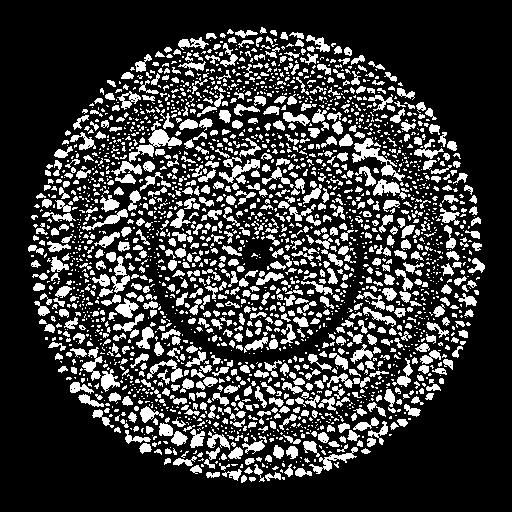
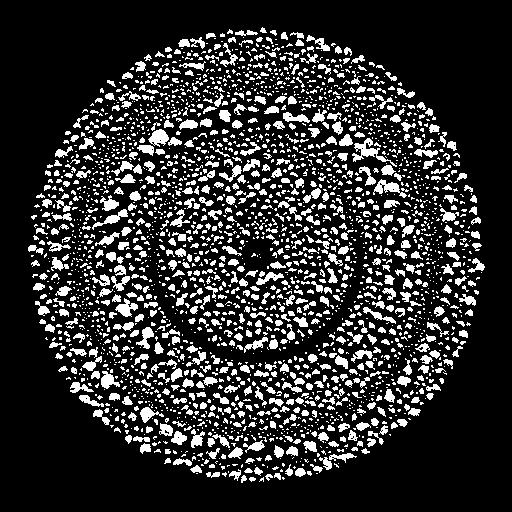
stones segmentation quite good idk

diff --git a/main.py b/main.py
@@ -532,7 +532,7 @@ def stones():
     # plot.show()
     print(otsu(image))
     print(otsu_threshold(image, (image.height * image.width)))
-    image.treshold(135)
+    image.treshold(150)
     image.update_image(image.new_image, '-thed')
     m = image.new_image
     image.save_image()
@@ -547,42 +547,50 @@ def stones():
 
     kernel1 = np.ones((6, 6), 'uint8')
     kernel2 = np.ones((7, 7), 'uint8')
-    kernel3 = np.ones((2, 2), 'uint8')
+    kernel3 = np.ones((1, 1), 'uint8')
     pix_eros1 = cv2.erode(m, kernel1, iterations=1)
-    image.update_image(pix_eros1, '-erosed-4x4')
+    image.update_image(pix_eros1, '-erosed-' + str(kernel1.shape[0]))
     image.save_image()
     pix_eros2 = cv2.erode(m, kernel2, iterations=1)
-    kernel4 = np.ones((1, 1), 'uint8')
-    pix_eros2 = cv2.erode(pix_eros2, kernel4, iterations=1)
+    pix_eros2 = cv2.dilate(pix_eros2, kernel3, iterations=1)
 
-    image.update_image(pix_eros2, '-erosed-5x5')
+    image.update_image(pix_eros2, '-erosed-' + str(kernel2.shape[0]))
     image.save_image()
 
     # erosion_result = sub(pix_eros1, pix_eros2)
     erosion_result = np.subtract(pix_eros1, pix_eros2)
 
-    # result1 = bwareaopen(m, 11)
-    # image.update_image(result1, '-bwareaopen1')
-    # image.save_image()
-    # result1 = image.new_image
-    # result2 = bwareaopen(m, 121)
-    # image.update_image(result2, '-bwareaopen2')
-    # image.save_image()
-    # #erosion_result = sub(m, erosion_result1)
-    # erosion_result = np.subtract(result1, result2)
-
-
-
     image.update_image(erosion_result, '-erosed')
     image.save_image()
 
-
-    for row in range(1, image.height-1):
-        for col in range(1, image.width-1):
+    for row in range(2, image.height - 2):
+        for col in range(2, image.width - 2):
             if image.new_image[row, col] == 255:
-                if image.new_image[row, col-1] == 0 and image.new_image[row, col+1] == 0 and image.new_image[row-1, col-1] == 0 and image.new_image[row-1, col] == 0 and image.new_image[row-1, col+1] == 0 and image.new_image[row+1, col-1] == 0 and image.new_image[row+1, col] == 0 and image.new_image[row+1, col+1] == 0:
+                if image.new_image[row, col - 1] == 0 and \
+                        image.new_image[row, col + 1] == 0 and \
+                        image.new_image[row, col - 2] == 0 and \
+                        image.new_image[row, col + 2] == 0 and \
+                        image.new_image[row - 1, col] == 0 and \
+                        image.new_image[row - 1, col - 1] == 0 and \
+                        image.new_image[row - 1, col + 1] == 0 and \
+                        image.new_image[row - 1, col + 2] == 0 and \
+                        image.new_image[row - 1, col - 2] == 0 and \
+                        image.new_image[row + 1, col] == 0 and \
+                        image.new_image[row + 1, col - 1] == 0 and \
+                        image.new_image[row + 1, col + 1] == 0 and \
+                        image.new_image[row + 1, col + 2] == 0 and \
+                        image.new_image[row + 1, col - 2] == 0 and \
+                        image.new_image[row + 2, col] == 0 and \
+                        image.new_image[row + 2, col + 1] == 0 and \
+                        image.new_image[row + 2, col - 1] == 0 and \
+                        image.new_image[row + 2, col + 2] == 0 and \
+                        image.new_image[row + 2, col - 2] == 0 and \
+                        image.new_image[row - 2, col] == 0 and \
+                        image.new_image[row - 2, col - 1] == 0 and \
+                        image.new_image[row - 2, col + 1] == 0 and \
+                        image.new_image[row - 2, col - 2] == 0 and \
+                        image.new_image[row - 2, col + 2] == 0:
                     image.new_image[row, col] = 123
-
 
     count = 0
     for row in range(image.height):
@@ -602,10 +610,7 @@ def stones():
         for col in range(image.width):
             if image.new_image[row, col] == 238:
                 cv2.circle(circles, (col, row), 6, (0, 0, 255), 2)
-    # image.negative()
-    # dil = cv2.dilate(image.new_image, kernel3, iterations=1)
-    # image.update_image((dil + laplas), '-sumMaskLaplas')
-    # image.update_image(image.new_image + circles, '-circled')
+
     image.original_image = np.abs(image.original_image - 50)
     image.update_image(np.abs(image.new_image), '-final')
 
@@ -616,6 +621,88 @@ def stones():
 
     image.save_image()
 
+
+def stones_2():
+    image = MyImage.load_image('images/stones/', 'stones', np.uint8)
+    image.treshold(150)
+    image.update_image(image.new_image, '-thed')
+    m = image.new_image
+
+    kernel1 = np.ones((1, 6), 'uint8')  # x, 1 - vertical; 1, x - horizontal
+    kernel2 = np.ones((1, 7), 'uint8')  # x, 1 - vertical; 1, x - horizontal
+    # kernel3 = np.ones((1, 1), 'uint8')
+    pix_eros1 = cv2.erode(m, kernel1, iterations=1)
+    image.update_image(pix_eros1, '-erosed-' + str(kernel1.shape[0]))
+    image.save_image()
+    pix_eros2 = cv2.erode(m, kernel2, iterations=1)
+    # pix_eros2 = cv2.dilate(pix_eros2, kernel3, iterations=1)
+
+    image.update_image(pix_eros2, '-erosed-' + str(kernel2.shape[0]))
+    image.save_image()
+
+    # erosion_result = sub(pix_eros1, pix_eros2)
+    erosion_result = np.subtract(pix_eros1, pix_eros2)
+
+    image.update_image(erosion_result, '-erosed')
+    image.save_image()
+
+    for row in range(2, image.height-2):
+        for col in range(2, image.width-2):
+            if image.new_image[row, col] == 255:
+                if image.new_image[row, col-1] == 0 and \
+                        image.new_image[row, col+1] == 0 and \
+                        image.new_image[row, col-2] == 0 and \
+                        image.new_image[row, col+2] == 0 and \
+                        image.new_image[row-1, col] == 0 and \
+                        image.new_image[row-1, col-1] == 0 and \
+                        image.new_image[row-1, col+1] == 0 and \
+                        image.new_image[row-1, col+2] == 0 and \
+                        image.new_image[row-1, col-2] == 0 and \
+                        image.new_image[row+1, col] == 0 and \
+                        image.new_image[row+1, col-1] == 0 and \
+                        image.new_image[row+1, col+1] == 0 and \
+                        image.new_image[row+1, col+2] == 0 and \
+                        image.new_image[row+1, col-2] == 0 and \
+                        image.new_image[row+2, col] == 0 and \
+                        image.new_image[row+2, col+1] == 0 and \
+                        image.new_image[row+2, col-1] == 0 and \
+                        image.new_image[row+2, col+2] == 0 and \
+                        image.new_image[row+2, col-2] == 0 and \
+                        image.new_image[row-2, col] == 0 and \
+                        image.new_image[row-2, col-1] == 0 and \
+                        image.new_image[row-2, col+1] == 0 and \
+                        image.new_image[row-2, col-2] == 0 and \
+                        image.new_image[row-2, col+2] == 0:
+                    image.new_image[row, col] = 123
+
+    count = 0
+    for row in range(image.height):
+        for col in range(image.width):
+            if image.new_image[row, col] == 123:
+                count += 1
+    print('Кол-во камней = ', count)
+
+    for row in range(image.height):
+        for col in range(image.width):
+            if image.new_image[row, col] == 123:
+                image.new_image[row, col] = 238
+            else:
+                image.new_image[row, col] = 0
+    circles = np.ones(shape=(len(image.new_image), len(image.new_image[0]), 3), dtype=np.uint8)
+    for row in range(image.height):
+        for col in range(image.width):
+            if image.new_image[row, col] == 238:
+                cv2.circle(circles, (col, row), 6, (0, 0, 255), 2)
+
+    image.original_image = np.abs(image.original_image - 50)
+    image.update_image(np.abs(image.new_image), '-final')
+
+    a = cv2.imread('images/stones/stones.jpg')
+    b = cv2.addWeighted(a, 0.7, circles, 1, 0.0)
+
+    cv2.imwrite('images/stones/rgb-final-horizontal.jpg', b)
+
+    image.save_image()
 
 if __name__ == '__main__':
     # lab_1()  # ЛР №3 внутри
@@ -693,3 +780,4 @@ if __name__ == '__main__':
     #     lab_mrt(image)
     # -------------------------------------------
     stones()
+    # stones_2()
